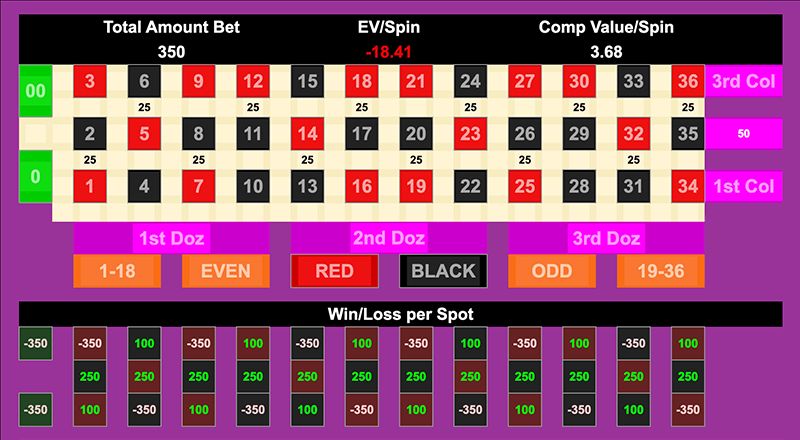
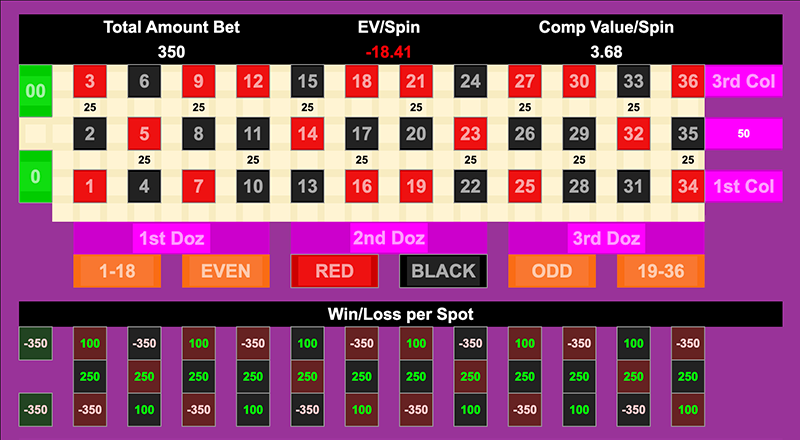
Adding Holy Splits

diff --git a/gambling/roulette/systems/2021-09-17-Holy-Splits.html b/gambling/roulette/systems/2021-09-17-Holy-Splits.html
@@ -2,3 +2,33 @@
 layout: roulette-system
 title: Holy Splits - Roulette System Review
 ---
+<p>
+    You can save a lot of time by just betting <span class="amt-pos">$200</span> on one
+    column or dozen and $150 on another. You'll get the same results with less "reach-around".
+</p>
+<p>
+    Check out this super simple version of this system:
+</p>
+<figure>
+    <img src="{{site.baseurl}}/assets/img/systems/2021-09-17/01-rba-modified-800x440.png" alt="Just 2 bets instead of 13." />
+    <figcaption>
+        Why waste time with all those split bets? Just use this betting pattern instead.
+    </figcaption>
+</figure>
+<p>
+    This betting pattern is easier to make and you will know how much you won without looking at
+    the table.
+</p>
+<p>
+    {% include roulette-spot.html number="1" %} -
+    {% include roulette-spot.html number="12" %}
+    wins
+    {% include win-loss-amount.html amount=250-%}.
+</p>
+<p>
+    {% include roulette-spot.html number="13" %} -
+    {% include roulette-spot.html number="24" %}
+    wins
+    {% include win-loss-amount.html amount=100-%}.
+
+</p>
